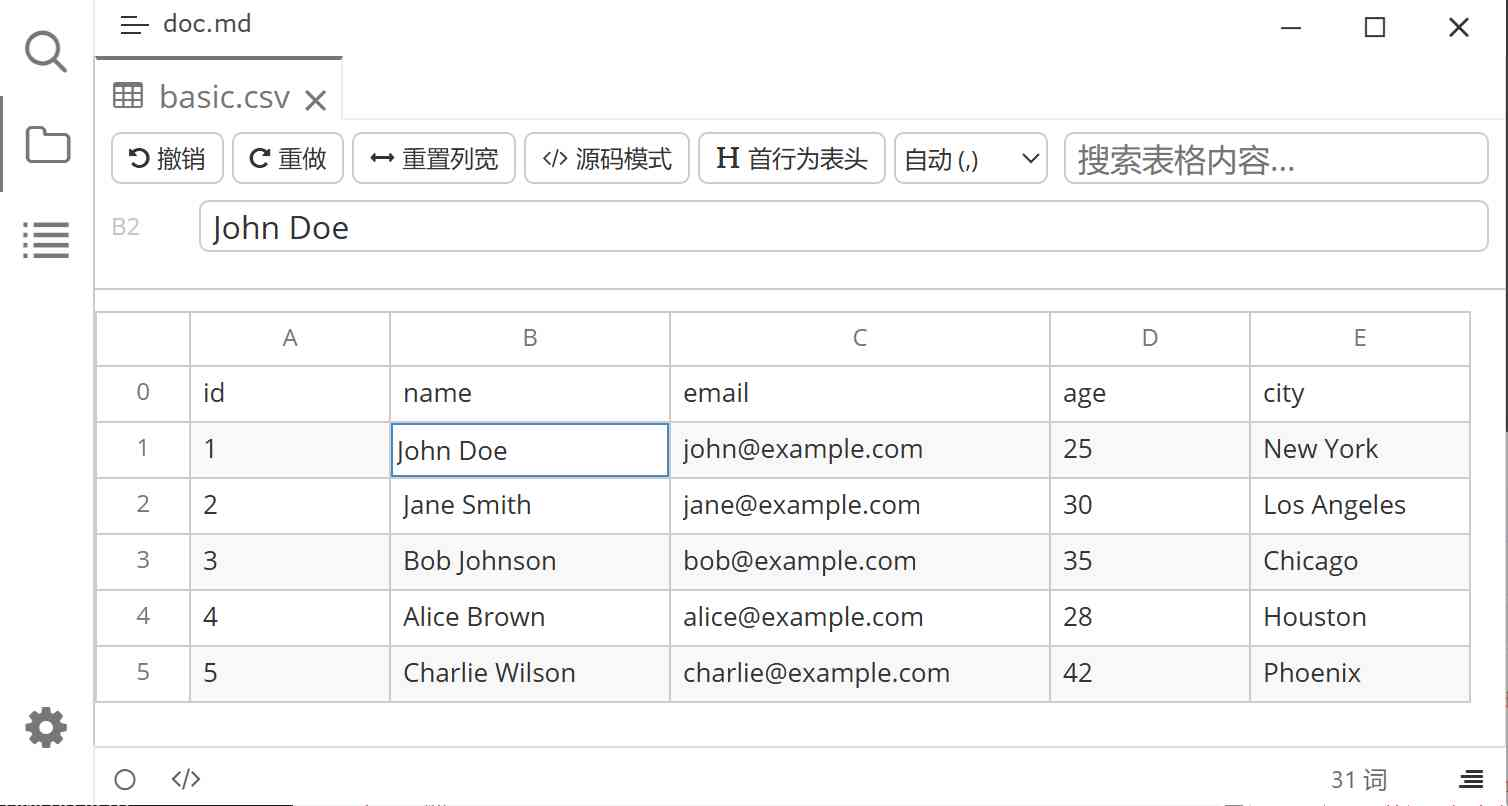
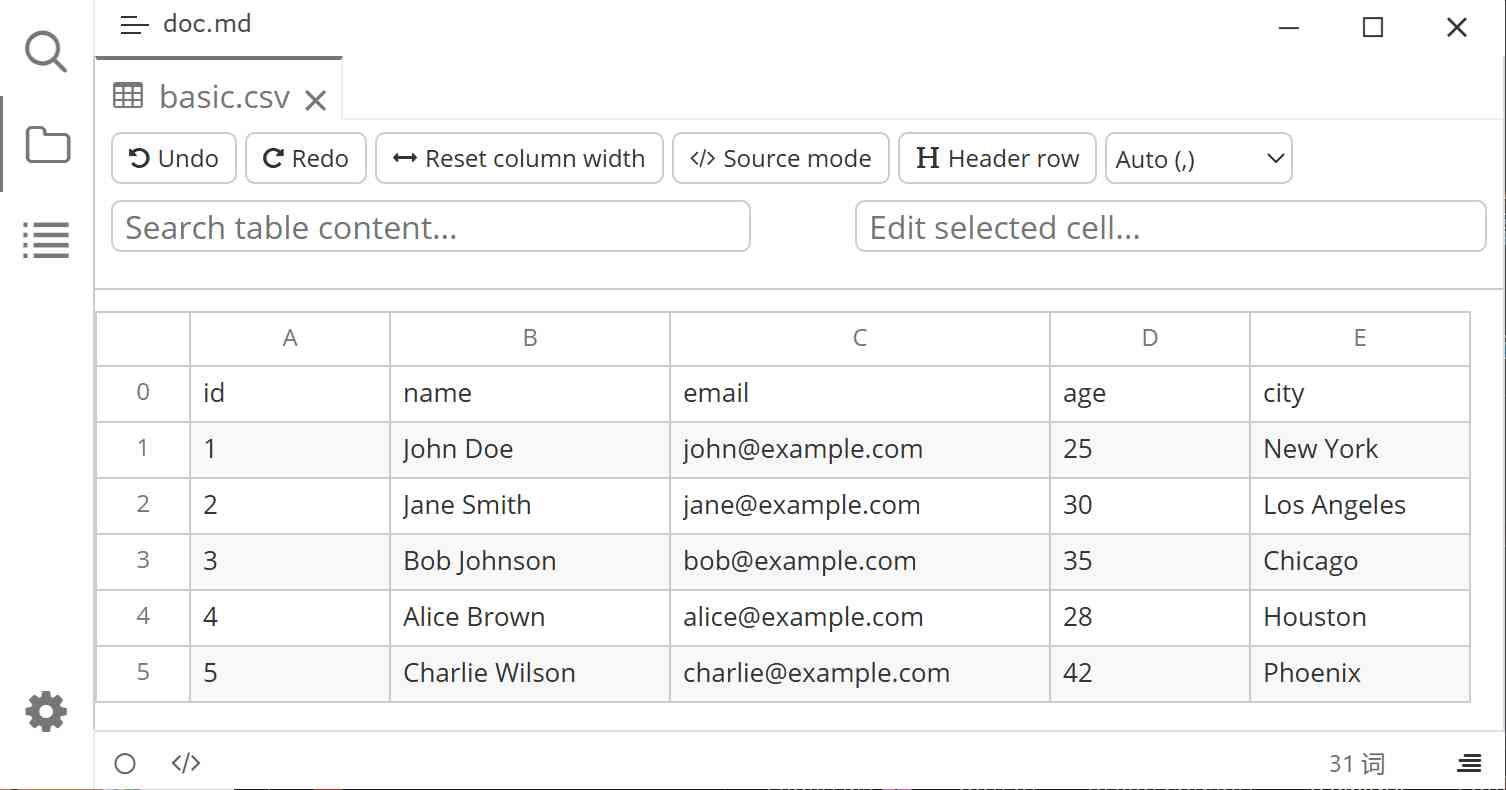
bump version

diff --git a/README.zh-CN.md b/README.zh-CN.md
@@ -8,7 +8,7 @@
 
 ## 预览
 
-![](docs/assets/base.jpg)
+![](docs/assets/base.zh-CN.jpg)
 
 ## 功能
 
